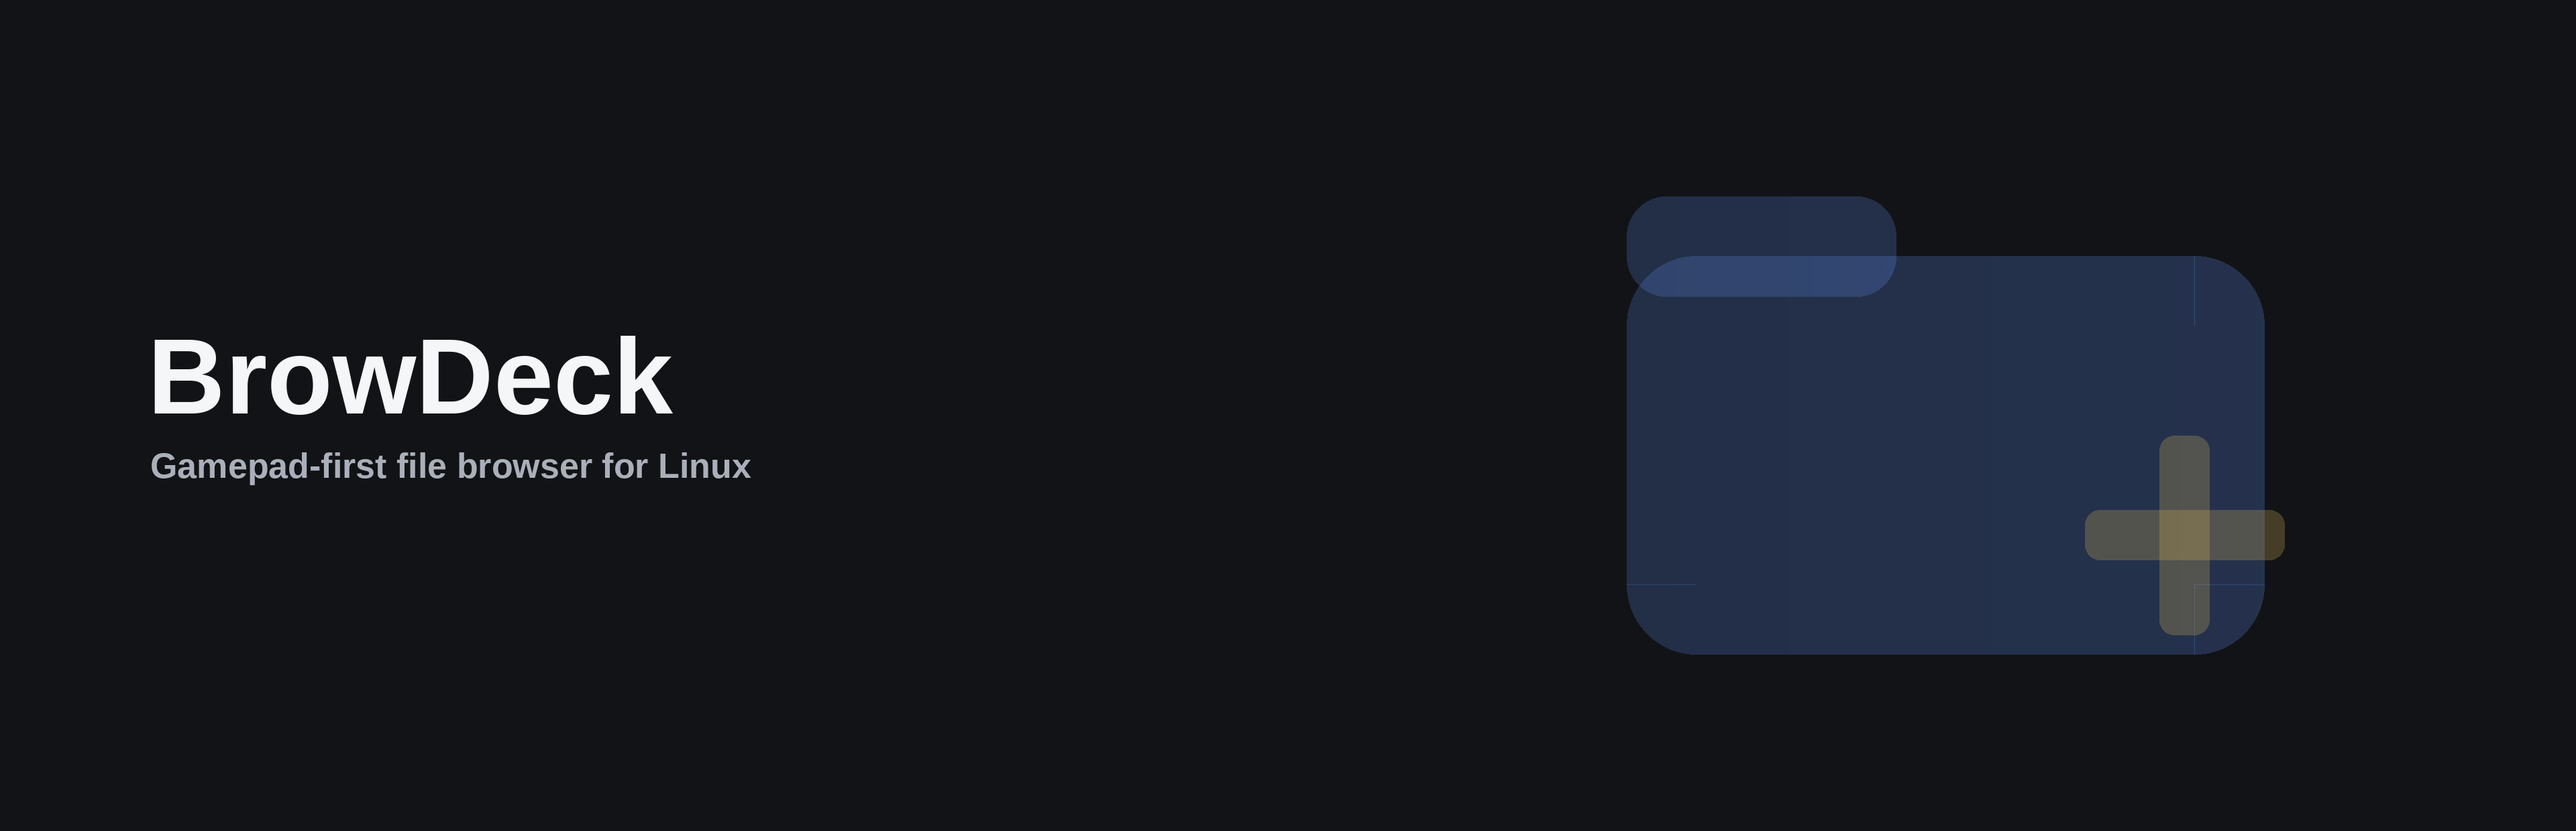
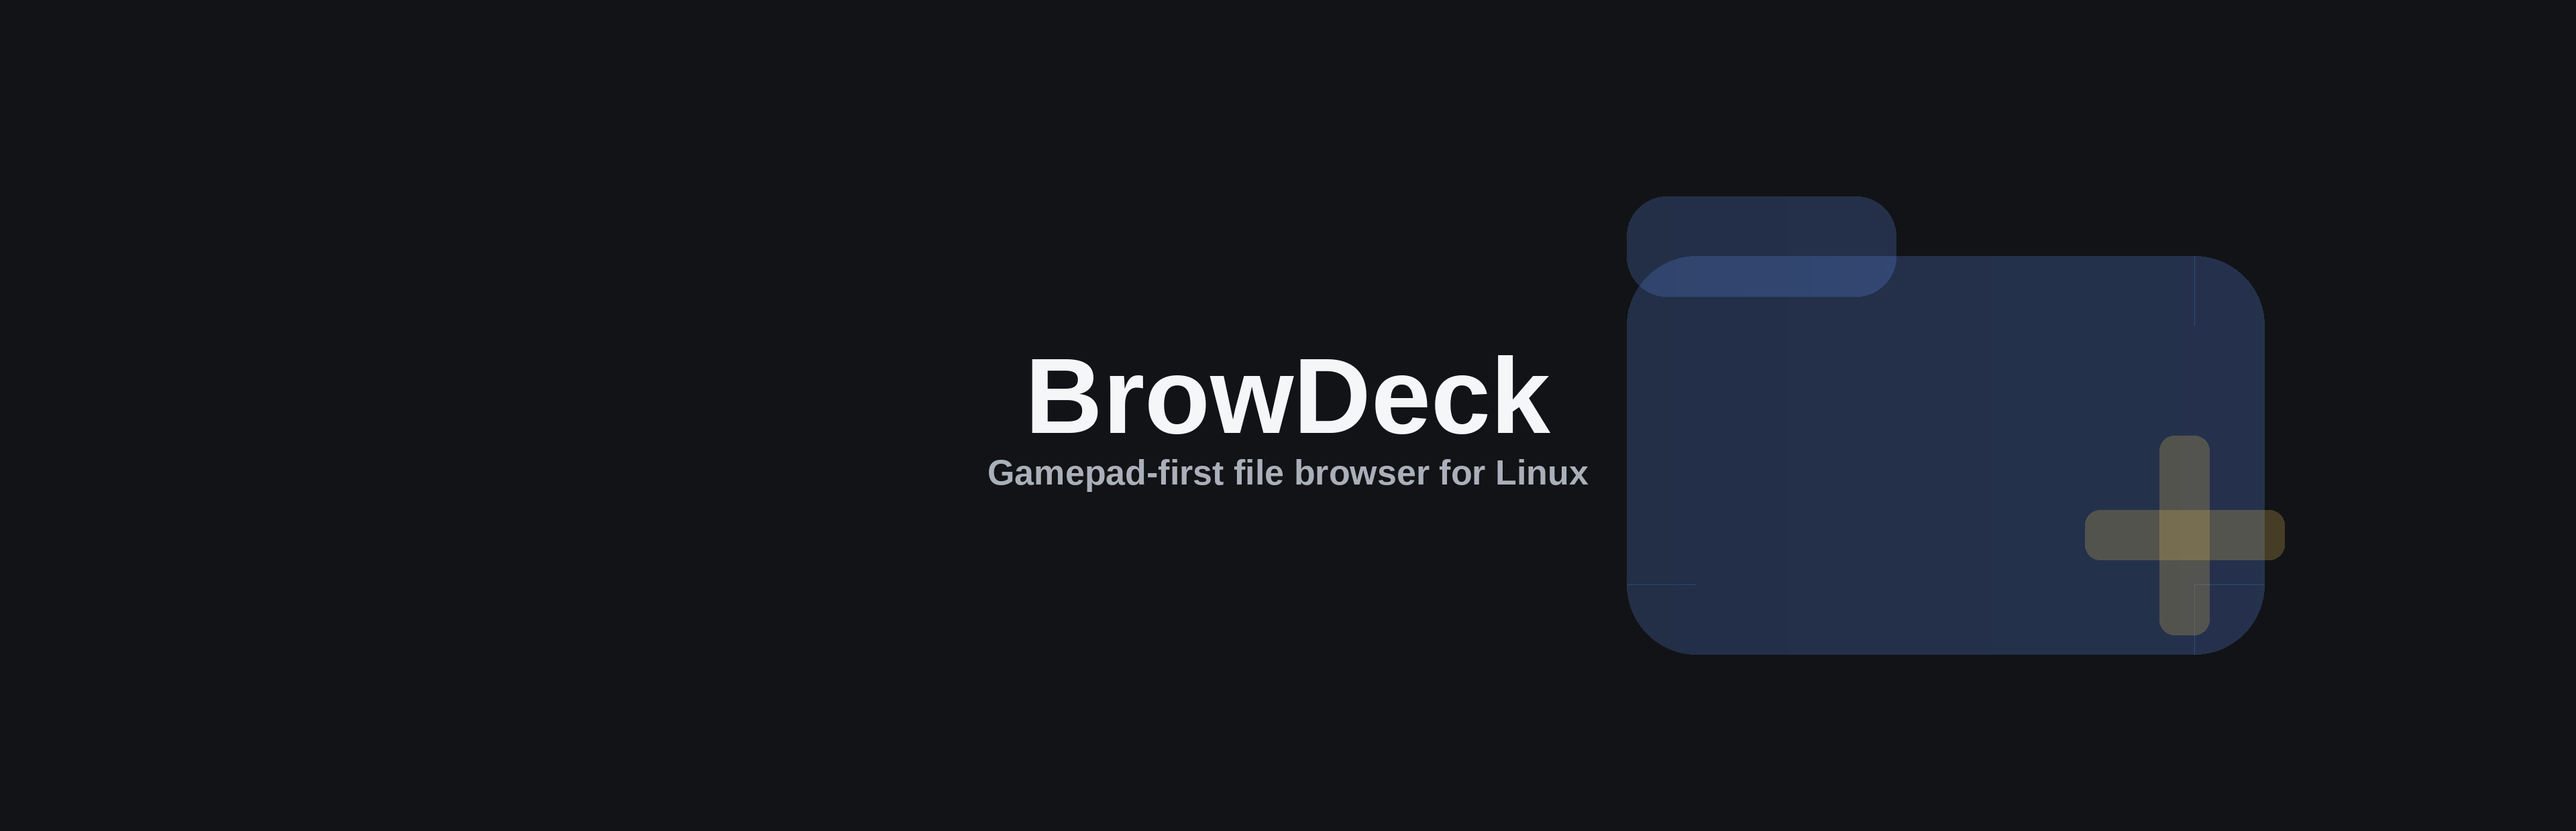
fix some steam assets

diff --git a/CHANGELOG.md b/CHANGELOG.md
@@ -1,5 +1,13 @@
 ## [Unreleased]
 
+## [1.5.2] — 2026-09-09
+
+### Fixed
+- Steam library background image (`packaging/steam-library/`) had its
+  title text positioned too close to the left edge, getting cropped on
+  Steam Deck — recentered
+- Steam library logo image had the same off-center problem — recentered
+
 ## [1.5.1] — 2026-09-09
 
 ### Fixed
